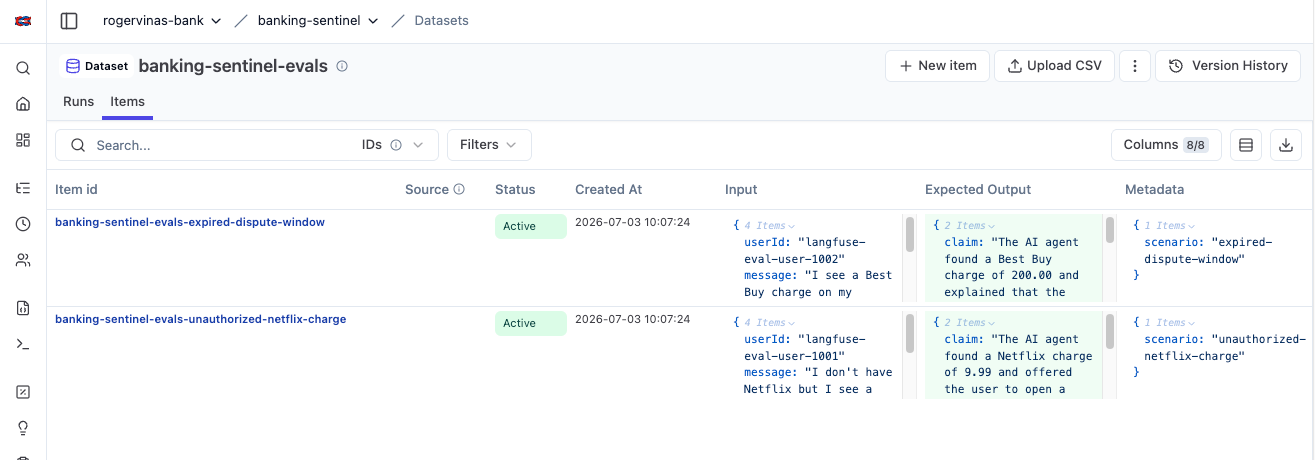
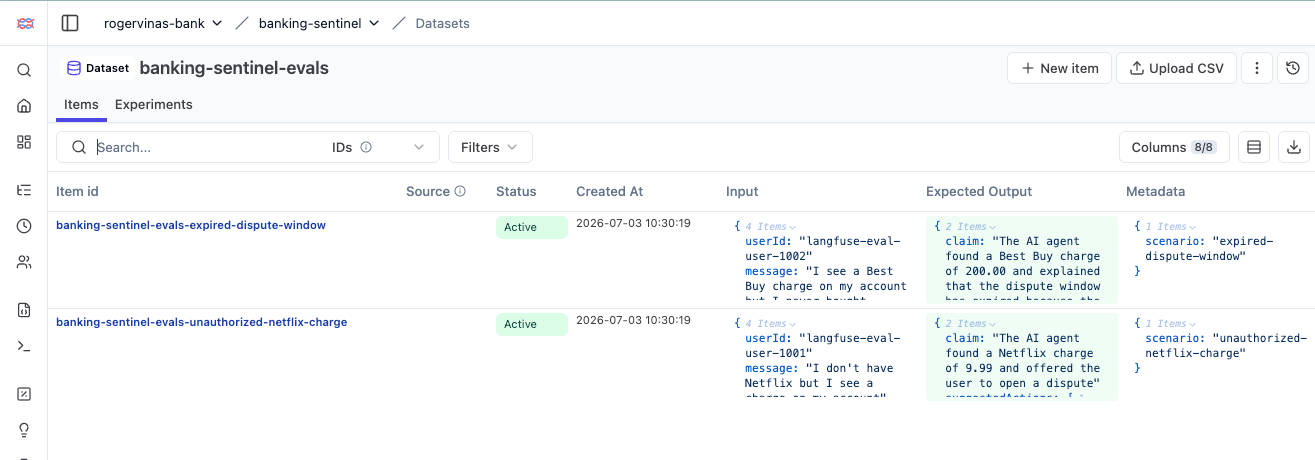
Update Langfuse UI navigation paths and labels
- Rename Datasets tab: Runs → Experiments
- Rename sidebar page: LLM-as-a-Judge → Evaluators
- Add Score type field (numeric, boolean, categorical) to custom evaluator setup

diff --git a/README.md b/README.md
@@ -365,7 +365,7 @@ Run against a running server:
 uv run python -m evals.langfuse.run_experiment api --url http://localhost:8000
 ```
 
-Open [http://localhost:3000](http://localhost:3000) → **Datasets** → **Runs** to see the experiment runs:
+Open [http://localhost:3000](http://localhost:3000) → **Datasets** → **Experiments** to see the experiment runs:
 
 ![](.doc/screenshot-experiment-runs.png)
 
@@ -381,10 +381,10 @@ Langfuse can automatically score live traces as they arrive — no code changes 
 Go to [http://localhost:3000](http://localhost:3000) → **Settings → LLM Connections** → add your model provider API key.
 
 **2 — Set default evaluation model:**
-Go to [http://localhost:3000](http://localhost:3000) → **LLM-as-a-Judge** → set the **Default Evaluation Model** to the connection you just added.
+Go to [http://localhost:3000](http://localhost:3000) → **Evaluators** → set the **Default Evaluation Model** to the connection you just added.
 
 **3 — Create the evaluator:**
-Go to [http://localhost:3000](http://localhost:3000) → **LLM-as-a-Judge** → **Create Evaluator**. Two options:
+Go to [http://localhost:3000](http://localhost:3000) → **Evaluators** → **Create Evaluator**. Two options:
 
 - **Built-in evaluators** (e.g. **Helpfulness**, **Hallucination**) — often too generic for a specific domain.
 - **Custom Evaluator** — your own domain-aware prompt. This is what we use for the PoC.
@@ -394,6 +394,7 @@ Fill in the custom evaluator:
 - **Name** — e.g. `banking-sentinel-helpfulness`
 - **Model** — leave **Use default evaluation model** checked (the model you set in step 2)
 - **Evaluation prompt** — reference the trace content with `{{input}}` and `{{output}}` (see below)
+- **Score type** — `numeric`, `boolean`, or `categorical`
 - **Score reasoning prompt** and **Score range prompt** — leave at their defaults or customize at will
 
 Evaluation prompt:

diff --git a/.doc/SLIDES.md b/.doc/SLIDES.md
@@ -184,7 +184,7 @@ Execution:
 
 ---
 
-## 📋 Offline Evaluations — Langfuse Experiments (runs)
+## 📋 Offline Evaluations — Langfuse Experiments (experiments)
 
 ![w:1120px](screenshot-experiment-runs.png)
 
